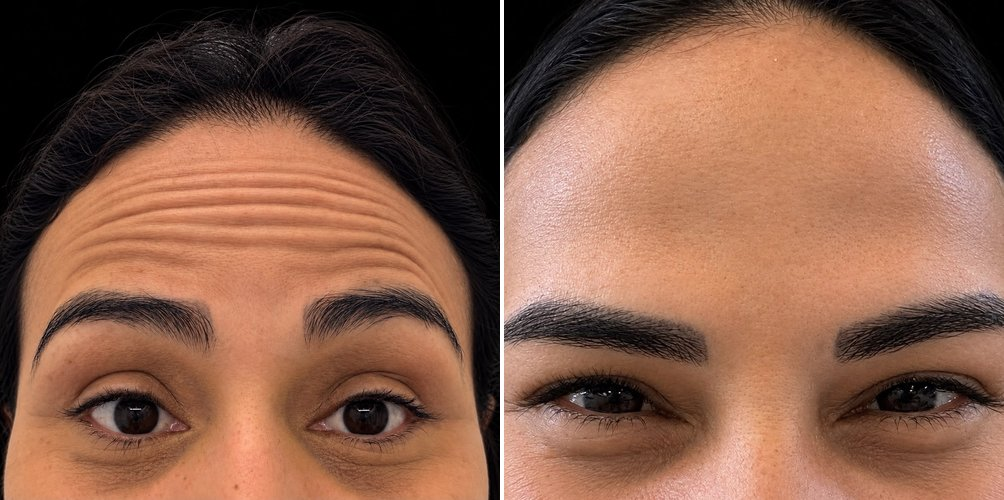
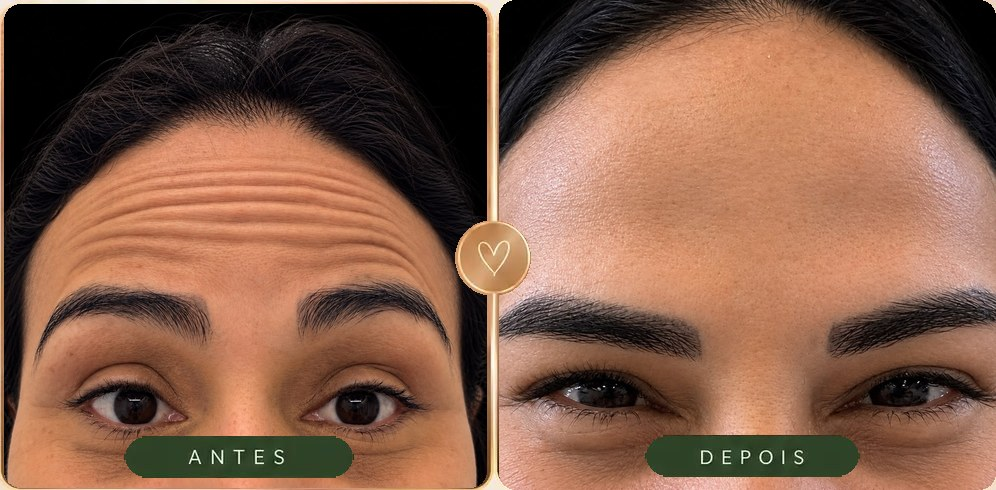
Foto da testa (Linhas de Expressao) no padrao antes/depois; painel com publicacoes turbinadas

diff --git a/_modelo/painel.html b/_modelo/painel.html
@@ -193,7 +193,7 @@
     <div class="abas" role="tablist" aria-label="O que ver">
       <button type="button" role="tab" data-aba="site" aria-selected="true">Site</button>
       <button type="button" role="tab" data-aba="meta" aria-selected="false">Meta</button>
-      <button type="button" role="tab" data-aba="anuncio" aria-selected="false">Anúncio atual</button>
+      <button type="button" role="tab" data-aba="anuncio" aria-selected="false">Anúncios</button>
     </div>
     <div class="periodo" role="group" aria-label="Período">
       <button type="button" data-dias="7" aria-pressed="false">7 dias</button>
@@ -337,6 +337,21 @@
   </div>
 
   <div id="conteudoAnuncio" hidden>
+    <div id="turboBloco" hidden>
+      <h2 class="secao">Publicações turbinadas no Instagram <small id="turboQuando"></small></h2>
+      <p class="sub" style="margin:4px 0 0">O método que mais trouxe conversas: post turbinado pelo app, meta “Mais mensagens”, público Estética 24–65 perto do studio, R$ 12 por dia por 2 a 4 dias.</p>
+      <section class="kpis" aria-label="Resumo das publicações turbinadas">
+        <div class="kpi"><div class="kpi-rot">Investido</div><div class="kpi-val" id="turGasto">—</div><div class="kpi-sub" id="turOrc"></div></div>
+        <div class="kpi destaque"><div class="kpi-rot"><i style="background:var(--s-cliques)"></i>Conversas no Direct</div><div class="kpi-val" id="turConversas">—</div><div class="kpi-sub" id="turCusto"></div></div>
+        <div class="kpi"><div class="kpi-rot"><i style="background:var(--s-visitas)"></i>Pessoas alcançadas</div><div class="kpi-val" id="turAlcance">—</div><div class="kpi-sub" id="turVisu"></div></div>
+        <div class="kpi"><div class="kpi-rot">Visitas ao perfil</div><div class="kpi-val" id="turPerfil">—</div><div class="kpi-sub" id="turSeg"></div></div>
+      </section>
+      <div class="card" style="margin-top:16px">
+        <h2>Qual publicação traz mais conversas</h2>
+        <p class="sub">Custo por conversa de cada post turbinado · quanto menor, melhor</p>
+        <div class="tabela-scroll"><table id="tabTurbo"><thead><tr><th>Publicação</th><th class="n">Conversas</th><th class="n">Custo/conversa</th><th class="n">Investido</th><th class="n">Alcance</th><th>Situação</th></tr></thead><tbody></tbody></table></div>
+      </div>
+    </div>
     <p class="aviso" id="manualVazio" hidden>Os números do anúncio aparecem aqui depois da primeira leitura automática do Gerenciador de Anúncios.</p>
     <div id="metaManual" hidden>
       <h2 class="secao">Anúncio no Instagram · conta atual <small id="manualQuando"></small></h2>
@@ -885,7 +900,7 @@
       $('btnSair').hidden = DEMO;
       $('atualizado').textContent = 'Atualizado às ' + new Date().toLocaleTimeString('pt-BR', { hour: '2-digit', minute: '2-digit' });
       $('metaErro').hidden = true;
-      if (aba === 'anuncio') { desenharManual(metaDados.manual); $('manualVazio').hidden = !!metaDados.manual; return; }
+      if (aba === 'anuncio') { desenharTurbo(metaDados.manual); desenharManual(metaDados.manual && metaDados.manual.campanha ? metaDados.manual : null); $('manualVazio').hidden = !!metaDados.manual; return; }
       $('metaConfig').hidden = metaDados.configurado;
       $('metaDados').hidden = !metaDados.configurado;
       if (metaDados.configurado) desenharMeta();
@@ -1009,6 +1024,29 @@
   }
 
   // Bloco temporário: conta de anúncios que a API não lê (números gravados pelo coletor)
+  // Publicações turbinadas pelo app do Instagram (lidas em Ferramentas para anúncios)
+  function desenharTurbo(m) {
+    const l = m && Array.isArray(m.turbinados) ? m.turbinados : [];
+    $('turboBloco').hidden = !l.length;
+    if (!l.length) return;
+    const soma = (k) => l.reduce((t, i) => t + (i[k] || 0), 0);
+    const gasto = soma('gasto'), conv = soma('conversas');
+    $('turboQuando').textContent = 'atualizado ' + new Date(m.em).toLocaleString('pt-BR', { day: '2-digit', month: '2-digit', hour: '2-digit', minute: '2-digit' });
+    $('turGasto').textContent = moeda.format(gasto);
+    $('turOrc').textContent = soma('orcamento') ? 'de ' + moeda.format(soma('orcamento')) + ' programados' : '';
+    $('turConversas').textContent = fmt.format(conv);
+    $('turCusto').textContent = conv ? moeda.format(gasto / conv) + ' por conversa' : 'custo aparece com a 1ª conversa';
+    $('turAlcance').textContent = fmt.format(soma('alcance'));
+    $('turVisu').textContent = soma('visualizacoes') ? fmt.format(soma('visualizacoes')) + ' visualizações' : '';
+    $('turPerfil').textContent = fmt.format(soma('perfil'));
+    $('turSeg').textContent = soma('seguidores') ? '+' + fmt.format(soma('seguidores')) + ' seguidores' : '';
+    const esc = (t) => String(t == null ? '' : t).replace(/[&<>"]/g, (c) => ({ '&': '&amp;', '<': '&lt;', '>': '&gt;', '"': '&quot;' }[c]));
+    const ord = l.slice().sort((a, b) => (a.conversas ? a.gasto / a.conversas : 1e9) - (b.conversas ? b.gasto / b.conversas : 1e9));
+    document.querySelector('#tabTurbo tbody').innerHTML = ord.map((i) => '<tr><td>' + esc(i.nome) + '</td><td class="n">' + (i.conversas == null ? '—' : fmt.format(i.conversas)) +
+      '</td><td class="n">' + (i.conversas ? moeda.format(i.gasto / i.conversas) : '—') + '</td><td class="n">' + (i.gasto == null ? '—' : moeda.format(i.gasto)) +
+      '</td><td class="n">' + (i.alcance == null ? '—' : fmt.format(i.alcance)) + '</td><td>' + esc(i.status || '') + (i.dias ? ' · ' + i.dias + ' dias' : '') + '</td></tr>').join('');
+  }
+
   function desenharManual(m) {
     $('metaManual').hidden = !m;
     if (!m) return;

diff --git a/_servidor/monitor/public/adm.html b/_servidor/monitor/public/adm.html
@@ -193,7 +193,7 @@
     <div class="abas" role="tablist" aria-label="O que ver">
       <button type="button" role="tab" data-aba="site" aria-selected="true">Site</button>
       <button type="button" role="tab" data-aba="meta" aria-selected="false">Meta</button>
-      <button type="button" role="tab" data-aba="anuncio" aria-selected="false">Anúncio atual</button>
+      <button type="button" role="tab" data-aba="anuncio" aria-selected="false">Anúncios</button>
     </div>
     <div class="periodo" role="group" aria-label="Período">
       <button type="button" data-dias="7" aria-pressed="false">7 dias</button>
@@ -337,6 +337,21 @@
   </div>
 
   <div id="conteudoAnuncio" hidden>
+    <div id="turboBloco" hidden>
+      <h2 class="secao">Publicações turbinadas no Instagram <small id="turboQuando"></small></h2>
+      <p class="sub" style="margin:4px 0 0">O método que mais trouxe conversas: post turbinado pelo app, meta “Mais mensagens”, público Estética 24–65 perto do studio, R$ 12 por dia por 2 a 4 dias.</p>
+      <section class="kpis" aria-label="Resumo das publicações turbinadas">
+        <div class="kpi"><div class="kpi-rot">Investido</div><div class="kpi-val" id="turGasto">—</div><div class="kpi-sub" id="turOrc"></div></div>
+        <div class="kpi destaque"><div class="kpi-rot"><i style="background:var(--s-cliques)"></i>Conversas no Direct</div><div class="kpi-val" id="turConversas">—</div><div class="kpi-sub" id="turCusto"></div></div>
+        <div class="kpi"><div class="kpi-rot"><i style="background:var(--s-visitas)"></i>Pessoas alcançadas</div><div class="kpi-val" id="turAlcance">—</div><div class="kpi-sub" id="turVisu"></div></div>
+        <div class="kpi"><div class="kpi-rot">Visitas ao perfil</div><div class="kpi-val" id="turPerfil">—</div><div class="kpi-sub" id="turSeg"></div></div>
+      </section>
+      <div class="card" style="margin-top:16px">
+        <h2>Qual publicação traz mais conversas</h2>
+        <p class="sub">Custo por conversa de cada post turbinado · quanto menor, melhor</p>
+        <div class="tabela-scroll"><table id="tabTurbo"><thead><tr><th>Publicação</th><th class="n">Conversas</th><th class="n">Custo/conversa</th><th class="n">Investido</th><th class="n">Alcance</th><th>Situação</th></tr></thead><tbody></tbody></table></div>
+      </div>
+    </div>
     <p class="aviso" id="manualVazio" hidden>Os números do anúncio aparecem aqui depois da primeira leitura automática do Gerenciador de Anúncios.</p>
     <div id="metaManual" hidden>
       <h2 class="secao">Anúncio no Instagram · conta atual <small id="manualQuando"></small></h2>
@@ -885,7 +900,7 @@
       $('btnSair').hidden = DEMO;
       $('atualizado').textContent = 'Atualizado às ' + new Date().toLocaleTimeString('pt-BR', { hour: '2-digit', minute: '2-digit' });
       $('metaErro').hidden = true;
-      if (aba === 'anuncio') { desenharManual(metaDados.manual); $('manualVazio').hidden = !!metaDados.manual; return; }
+      if (aba === 'anuncio') { desenharTurbo(metaDados.manual); desenharManual(metaDados.manual && metaDados.manual.campanha ? metaDados.manual : null); $('manualVazio').hidden = !!metaDados.manual; return; }
       $('metaConfig').hidden = metaDados.configurado;
       $('metaDados').hidden = !metaDados.configurado;
       if (metaDados.configurado) desenharMeta();
@@ -1009,6 +1024,29 @@
   }
 
   // Bloco temporário: conta de anúncios que a API não lê (números gravados pelo coletor)
+  // Publicações turbinadas pelo app do Instagram (lidas em Ferramentas para anúncios)
+  function desenharTurbo(m) {
+    const l = m && Array.isArray(m.turbinados) ? m.turbinados : [];
+    $('turboBloco').hidden = !l.length;
+    if (!l.length) return;
+    const soma = (k) => l.reduce((t, i) => t + (i[k] || 0), 0);
+    const gasto = soma('gasto'), conv = soma('conversas');
+    $('turboQuando').textContent = 'atualizado ' + new Date(m.em).toLocaleString('pt-BR', { day: '2-digit', month: '2-digit', hour: '2-digit', minute: '2-digit' });
+    $('turGasto').textContent = moeda.format(gasto);
+    $('turOrc').textContent = soma('orcamento') ? 'de ' + moeda.format(soma('orcamento')) + ' programados' : '';
+    $('turConversas').textContent = fmt.format(conv);
+    $('turCusto').textContent = conv ? moeda.format(gasto / conv) + ' por conversa' : 'custo aparece com a 1ª conversa';
+    $('turAlcance').textContent = fmt.format(soma('alcance'));
+    $('turVisu').textContent = soma('visualizacoes') ? fmt.format(soma('visualizacoes')) + ' visualizações' : '';
+    $('turPerfil').textContent = fmt.format(soma('perfil'));
+    $('turSeg').textContent = soma('seguidores') ? '+' + fmt.format(soma('seguidores')) + ' seguidores' : '';
+    const esc = (t) => String(t == null ? '' : t).replace(/[&<>"]/g, (c) => ({ '&': '&amp;', '<': '&lt;', '>': '&gt;', '"': '&quot;' }[c]));
+    const ord = l.slice().sort((a, b) => (a.conversas ? a.gasto / a.conversas : 1e9) - (b.conversas ? b.gasto / b.conversas : 1e9));
+    document.querySelector('#tabTurbo tbody').innerHTML = ord.map((i) => '<tr><td>' + esc(i.nome) + '</td><td class="n">' + (i.conversas == null ? '—' : fmt.format(i.conversas)) +
+      '</td><td class="n">' + (i.conversas ? moeda.format(i.gasto / i.conversas) : '—') + '</td><td class="n">' + (i.gasto == null ? '—' : moeda.format(i.gasto)) +
+      '</td><td class="n">' + (i.alcance == null ? '—' : fmt.format(i.alcance)) + '</td><td>' + esc(i.status || '') + (i.dias ? ' · ' + i.dias + ' dias' : '') + '</td></tr>').join('');
+  }
+
   function desenharManual(m) {
     $('metaManual').hidden = !m;
     if (!m) return;

diff --git a/index.html b/index.html
@@ -37,7 +37,7 @@
 <link rel="preconnect" href="https://fonts.gstatic.com" crossorigin>
 <link href="https://fonts.googleapis.com/css2?family=Bodoni+Moda:ital,opsz,wght@0,6..96,400;0,6..96,500;1,6..96,400&family=Manrope:wght@400;500;600;700&display=swap" rel="stylesheet">
 <link rel="preload" as="image" href="assets/img/juliana-hero.jpg" fetchpriority="high">
-<link rel="stylesheet" href="assets/css/style.css?v=202611210529">
+<link rel="stylesheet" href="assets/css/style.css?v=202611211251">
 <script>document.documentElement.classList.add('js');</script>
 <style>
   :root{
@@ -352,7 +352,7 @@
         
         <figure class="result-card reveal">
           <button class="result-zoom" type="button" data-full="assets/img/resultado-linhas.jpg" data-caption="Linhas de Expressão — Testa lisa e olhar descansado, mantendo a expressão." aria-label="Ampliar foto: Linhas de Expressão">
-            <img src="assets/img/resultado-linhas.jpg" alt="Antes e depois — Linhas de Expressão" width="1004" height="500" loading="lazy">
+            <img src="assets/img/resultado-linhas.jpg" alt="Antes e depois — Linhas de Expressão" width="996" height="490" loading="lazy">
           </button>
           <figcaption><h3>Linhas de Expressão</h3><p>Testa lisa e olhar descansado, mantendo a expressão.</p></figcaption>
         </figure>
@@ -779,6 +779,6 @@
 </dialog>
 
 
-<script src="assets/js/main.js?v=202611210529" defer></script>
+<script src="assets/js/main.js?v=202611211251" defer></script>
 </body>
 </html>

diff --git a/linhas-de-expressao-tatuape/index.html b/linhas-de-expressao-tatuape/index.html
@@ -36,7 +36,7 @@
 <link rel="preconnect" href="https://fonts.googleapis.com">
 <link rel="preconnect" href="https://fonts.gstatic.com" crossorigin>
 <link href="https://fonts.googleapis.com/css2?family=Bodoni+Moda:ital,opsz,wght@0,6..96,400;0,6..96,500;1,6..96,400&family=Manrope:wght@400;500;600;700&display=swap" rel="stylesheet">
-<link rel="stylesheet" href="/assets/css/style.css?v=202611210529">
+<link rel="stylesheet" href="/assets/css/style.css?v=202611211251">
 <script>document.documentElement.classList.add('js');</script>
 <style>
   :root{
@@ -239,7 +239,7 @@
         
         <figure class="result-card reveal">
           <button class="result-zoom" type="button" data-full="/assets/img/resultado-linhas.jpg" data-caption="Linhas de Expressão — Testa lisa e olhar descansado, mantendo a expressão." aria-label="Ampliar foto: Linhas de Expressão">
-            <img src="/assets/img/resultado-linhas.jpg" alt="Antes e depois — Linhas de Expressão" width="1004" height="500" loading="lazy">
+            <img src="/assets/img/resultado-linhas.jpg" alt="Antes e depois — Linhas de Expressão" width="996" height="490" loading="lazy">
           </button>
           <figcaption><h3>Linhas de Expressão</h3><p>Testa lisa e olhar descansado, mantendo a expressão.</p></figcaption>
         </figure>
@@ -392,6 +392,6 @@
 
 
 
-<script src="/assets/js/main.js?v=202611210529" defer></script>
+<script src="/assets/js/main.js?v=202611211251" defer></script>
 </body>
 </html>

diff --git a/_servidor/monitor/server.js b/_servidor/monitor/server.js
@@ -193,7 +193,12 @@ const servidor = http.createServer((req, res) => {
         .map((i) => ({ nome: corta(i.nome, 60), cliques: n(i.cliques), impressoes: n(i.impressoes) })).filter((i) => i.nome) : []);
       const reg = { em: Date.now(), campanha: corta(d.campanha, 80), status: corta(d.status, 30), gasto: n(d.gasto), limite: n(d.limite),
         alcance: n(d.alcance), impressoes: n(d.impressoes), cliques: n(d.cliques), conversas: n(d.conversas), lidoEm: corta(d.lidoEm, 30),
-        sexo: lista(d.sexo), regiao: lista(d.regiao) };
+        sexo: lista(d.sexo), regiao: lista(d.regiao),
+        // Publicações turbinadas pelo app do Instagram (método que mais trouxe conversas): até 20
+        turbinados: (Array.isArray(d.turbinados) ? d.turbinados.slice(0, 20).filter((i) => i && typeof i === 'object') : []).map((i) => ({
+          nome: corta(i.nome, 80), conversas: n(i.conversas), gasto: n(i.gasto), orcamento: n(i.orcamento), alcance: n(i.alcance),
+          visualizacoes: n(i.visualizacoes), perfil: n(i.perfil), seguidores: n(i.seguidores), dias: n(i.dias),
+          status: corta(i.status, 40), publico: corta(i.publico, 80) })).filter((i) => i.nome) };
       fs.writeFile(MANUAL, JSON.stringify(reg), (err) => json(res, err ? 500 : 200, { ok: !err }));
     });
     return;

diff --git a/bioestimulador-de-colageno-tatuape/index.html b/bioestimulador-de-colageno-tatuape/index.html
@@ -36,7 +36,7 @@
 <link rel="preconnect" href="https://fonts.googleapis.com">
 <link rel="preconnect" href="https://fonts.gstatic.com" crossorigin>
 <link href="https://fonts.googleapis.com/css2?family=Bodoni+Moda:ital,opsz,wght@0,6..96,400;0,6..96,500;1,6..96,400&family=Manrope:wght@400;500;600;700&display=swap" rel="stylesheet">
-<link rel="stylesheet" href="/assets/css/style.css?v=202611210529">
+<link rel="stylesheet" href="/assets/css/style.css?v=202611211251">
 <script>document.documentElement.classList.add('js');</script>
 <style>
   :root{
@@ -373,6 +373,6 @@
 
 
 
-<script src="/assets/js/main.js?v=202611210529" defer></script>
+<script src="/assets/js/main.js?v=202611211251" defer></script>
 </body>
 </html>

diff --git a/contorno-de-mandibula-tatuape/index.html b/contorno-de-mandibula-tatuape/index.html
@@ -36,7 +36,7 @@
 <link rel="preconnect" href="https://fonts.googleapis.com">
 <link rel="preconnect" href="https://fonts.gstatic.com" crossorigin>
 <link href="https://fonts.googleapis.com/css2?family=Bodoni+Moda:ital,opsz,wght@0,6..96,400;0,6..96,500;1,6..96,400&family=Manrope:wght@400;500;600;700&display=swap" rel="stylesheet">
-<link rel="stylesheet" href="/assets/css/style.css?v=202611210529">
+<link rel="stylesheet" href="/assets/css/style.css?v=202611211251">
 <script>document.documentElement.classList.add('js');</script>
 <style>
   :root{
@@ -364,6 +364,6 @@
 
 
 
-<script src="/assets/js/main.js?v=202611210529" defer></script>
+<script src="/assets/js/main.js?v=202611211251" defer></script>
 </body>
 </html>

diff --git a/harmonizacao-facial-tatuape/index.html b/harmonizacao-facial-tatuape/index.html
@@ -36,7 +36,7 @@
 <link rel="preconnect" href="https://fonts.googleapis.com">
 <link rel="preconnect" href="https://fonts.gstatic.com" crossorigin>
 <link href="https://fonts.googleapis.com/css2?family=Bodoni+Moda:ital,opsz,wght@0,6..96,400;0,6..96,500;1,6..96,400&family=Manrope:wght@400;500;600;700&display=swap" rel="stylesheet">
-<link rel="stylesheet" href="/assets/css/style.css?v=202611210529">
+<link rel="stylesheet" href="/assets/css/style.css?v=202611211251">
 <script>document.documentElement.classList.add('js');</script>
 <style>
   :root{
@@ -349,6 +349,6 @@
 
 
 
-<script src="/assets/js/main.js?v=202611210529" defer></script>
+<script src="/assets/js/main.js?v=202611211251" defer></script>
 </body>
 </html>

diff --git a/preenchimento-labial-tatuape/index.html b/preenchimento-labial-tatuape/index.html
@@ -36,7 +36,7 @@
 <link rel="preconnect" href="https://fonts.googleapis.com">
 <link rel="preconnect" href="https://fonts.gstatic.com" crossorigin>
 <link href="https://fonts.googleapis.com/css2?family=Bodoni+Moda:ital,opsz,wght@0,6..96,400;0,6..96,500;1,6..96,400&family=Manrope:wght@400;500;600;700&display=swap" rel="stylesheet">
-<link rel="stylesheet" href="/assets/css/style.css?v=202611210529">
+<link rel="stylesheet" href="/assets/css/style.css?v=202611211251">
 <script>document.documentElement.classList.add('js');</script>
 <style>
   :root{
@@ -412,6 +412,6 @@
 
 
 
-<script src="/assets/js/main.js?v=202611210529" defer></script>
+<script src="/assets/js/main.js?v=202611211251" defer></script>
 </body>
 </html>

diff --git a/skincare-avancado-tatuape/index.html b/skincare-avancado-tatuape/index.html
@@ -36,7 +36,7 @@
 <link rel="preconnect" href="https://fonts.googleapis.com">
 <link rel="preconnect" href="https://fonts.gstatic.com" crossorigin>
 <link href="https://fonts.googleapis.com/css2?family=Bodoni+Moda:ital,opsz,wght@0,6..96,400;0,6..96,500;1,6..96,400&family=Manrope:wght@400;500;600;700&display=swap" rel="stylesheet">
-<link rel="stylesheet" href="/assets/css/style.css?v=202611210529">
+<link rel="stylesheet" href="/assets/css/style.css?v=202611211251">
 <script>document.documentElement.classList.add('js');</script>
 <style>
   :root{
@@ -379,6 +379,6 @@
 
 
 
-<script src="/assets/js/main.js?v=202611210529" defer></script>
+<script src="/assets/js/main.js?v=202611211251" defer></script>
 </body>
 </html>
